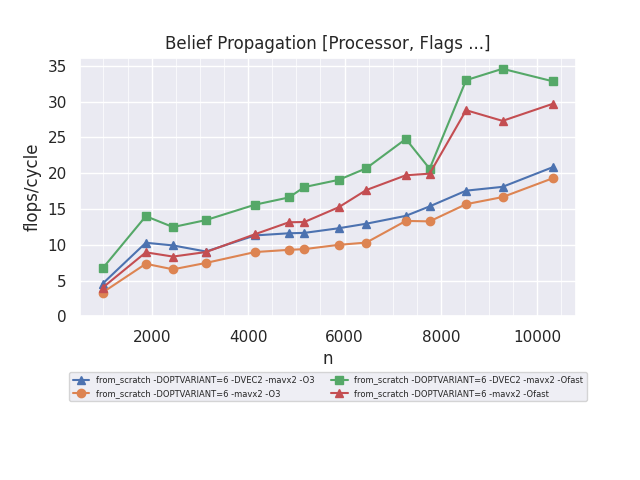
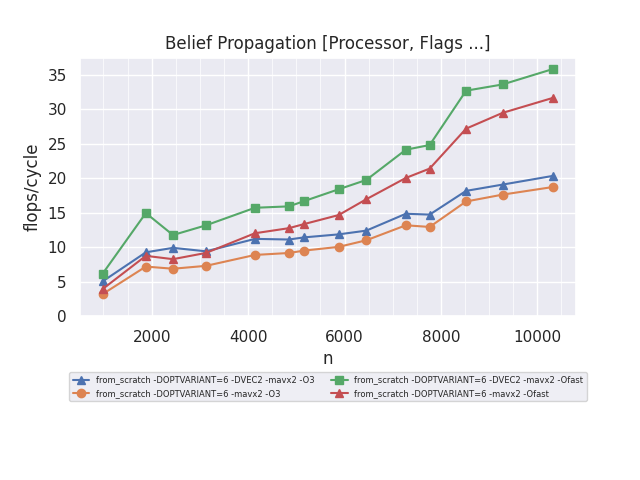
changed permute mask

diff --git a/from_scratch/src/belief3_vector.h b/from_scratch/src/belief3_vector.h
@@ -43,7 +43,7 @@ void propagate(graph_t *G) {
 #ifdef VEC2
 		__m256 glob_eq = _mm256_set_ps(glob11, glob00, glob11, glob00, glob11, glob00, glob11, glob00);
 		__m256 glob_diff = _mm256_set_ps(glob01, glob10, glob01, glob10, glob01, glob10, glob01, glob10);
-        __m256i rev_idx = _mm256_set_epi32(0xC, 0x1, 0xC, 0x1, 0xC, 0x1, 0xC, 0x1);
+        __m256i rev_idx = _mm256_set_epi32(0x2, 0x3, 0x0, 0x1, 0x2, 0x3, 0x0, 0x1);
 		__m256 abs_mask = _mm256_set1_ps(-0.0);
 		__m256 eps = _mm256_set1_ps(1e-6);
 		__m256 half = _mm256_set1_ps(0.5);
